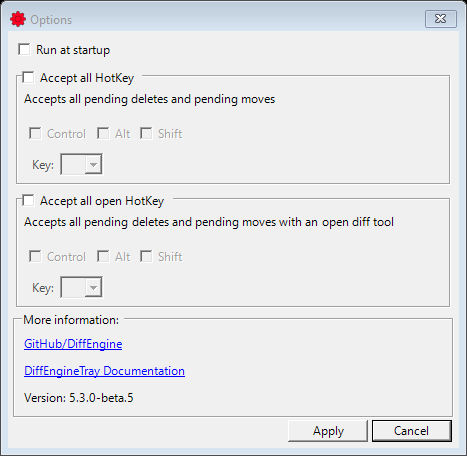
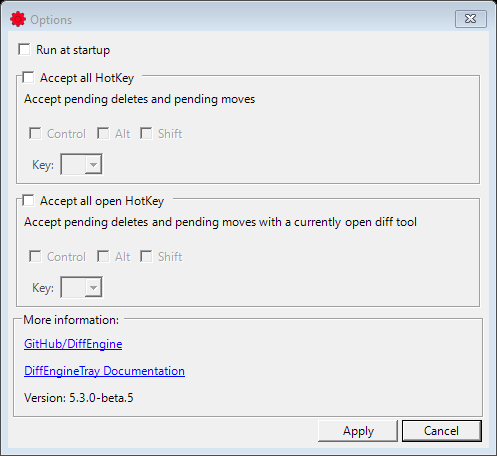
docs

diff --git a/src/DiffEngineTray/Settings/OptionsForm.Designer.cs b/src/DiffEngineTray/Settings/OptionsForm.Designer.cs
@@ -34,30 +34,30 @@
             this.bottomPanel.Controls.Add(this.save);
             this.bottomPanel.Dock = System.Windows.Forms.DockStyle.Bottom;
             this.bottomPanel.FlowDirection = System.Windows.Forms.FlowDirection.RightToLeft;
-            this.bottomPanel.Location = new System.Drawing.Point(5, 357);
-            this.bottomPanel.Margin = new System.Windows.Forms.Padding(2);
+            this.bottomPanel.Location = new System.Drawing.Point(9, 714);
+            this.bottomPanel.Margin = new System.Windows.Forms.Padding(3, 4, 3, 4);
             this.bottomPanel.Name = "bottomPanel";
-            this.bottomPanel.Size = new System.Drawing.Size(441, 26);
+            this.bottomPanel.Size = new System.Drawing.Size(807, 52);
             this.bottomPanel.TabIndex = 1;
             // 
             // cancel
             // 
             this.cancel.DialogResult = System.Windows.Forms.DialogResult.Cancel;
-            this.cancel.Location = new System.Drawing.Point(359, 2);
-            this.cancel.Margin = new System.Windows.Forms.Padding(2);
+            this.cancel.Location = new System.Drawing.Point(667, 4);
+            this.cancel.Margin = new System.Windows.Forms.Padding(3, 4, 3, 4);
             this.cancel.Name = "cancel";
             this.cancel.RightToLeft = System.Windows.Forms.RightToLeft.Yes;
-            this.cancel.Size = new System.Drawing.Size(80, 22);
+            this.cancel.Size = new System.Drawing.Size(137, 44);
             this.cancel.TabIndex = 0;
             this.cancel.Text = "Cancel";
             this.cancel.UseVisualStyleBackColor = true;
             // 
             // save
             // 
-            this.save.Location = new System.Drawing.Point(275, 2);
-            this.save.Margin = new System.Windows.Forms.Padding(2);
+            this.save.Location = new System.Drawing.Point(524, 4);
+            this.save.Margin = new System.Windows.Forms.Padding(3, 4, 3, 4);
             this.save.Name = "save";
-            this.save.Size = new System.Drawing.Size(80, 22);
+            this.save.Size = new System.Drawing.Size(137, 44);
             this.save.TabIndex = 1;
             this.save.Text = "Apply";
             this.save.UseVisualStyleBackColor = true;
@@ -67,14 +67,14 @@
             // 
             this.acceptAllHotKey.AutoSize = true;
             this.acceptAllHotKey.Dock = System.Windows.Forms.DockStyle.Top;
-            this.acceptAllHotKey.Help = "Accepts all pending deletes and pending moves";
+            this.acceptAllHotKey.Help = "Accept pending deletes and pending moves";
             this.acceptAllHotKey.HotKey = null;
             this.acceptAllHotKey.Label = "Accept all HotKey";
-            this.acceptAllHotKey.Location = new System.Drawing.Point(5, 31);
-            this.acceptAllHotKey.Margin = new System.Windows.Forms.Padding(2);
+            this.acceptAllHotKey.Location = new System.Drawing.Point(9, 59);
+            this.acceptAllHotKey.Margin = new System.Windows.Forms.Padding(3, 4, 3, 4);
             this.acceptAllHotKey.Name = "acceptAllHotKey";
-            this.acceptAllHotKey.Padding = new System.Windows.Forms.Padding(3);
-            this.acceptAllHotKey.Size = new System.Drawing.Size(441, 114);
+            this.acceptAllHotKey.Padding = new System.Windows.Forms.Padding(5, 6, 5, 6);
+            this.acceptAllHotKey.Size = new System.Drawing.Size(807, 224);
             this.acceptAllHotKey.TabIndex = 2;
             this.acceptAllHotKey.TabStop = false;
             // 
@@ -82,11 +82,11 @@
             // 
             this.startupCheckBox.AutoSize = true;
             this.startupCheckBox.Dock = System.Windows.Forms.DockStyle.Top;
-            this.startupCheckBox.Location = new System.Drawing.Point(5, 4);
-            this.startupCheckBox.Margin = new System.Windows.Forms.Padding(2);
+            this.startupCheckBox.Location = new System.Drawing.Point(9, 8);
+            this.startupCheckBox.Margin = new System.Windows.Forms.Padding(3, 4, 3, 4);
             this.startupCheckBox.Name = "startupCheckBox";
-            this.startupCheckBox.Padding = new System.Windows.Forms.Padding(5, 4, 5, 4);
-            this.startupCheckBox.Size = new System.Drawing.Size(441, 27);
+            this.startupCheckBox.Padding = new System.Windows.Forms.Padding(9, 8, 9, 8);
+            this.startupCheckBox.Size = new System.Drawing.Size(807, 51);
             this.startupCheckBox.TabIndex = 3;
             this.startupCheckBox.Text = "Run at startup";
             this.startupCheckBox.UseVisualStyleBackColor = true;
@@ -98,10 +98,11 @@
             this.groupBox1.Controls.Add(this.trayDocsLink);
             this.groupBox1.Controls.Add(this.diffEngineLink);
             this.groupBox1.Dock = System.Windows.Forms.DockStyle.Top;
-            this.groupBox1.Location = new System.Drawing.Point(5, 259);
+            this.groupBox1.Location = new System.Drawing.Point(9, 507);
+            this.groupBox1.Margin = new System.Windows.Forms.Padding(5, 6, 5, 6);
             this.groupBox1.Name = "groupBox1";
-            this.groupBox1.Padding = new System.Windows.Forms.Padding(6, 5, 6, 5);
-            this.groupBox1.Size = new System.Drawing.Size(441, 89);
+            this.groupBox1.Padding = new System.Windows.Forms.Padding(10);
+            this.groupBox1.Size = new System.Drawing.Size(807, 179);
             this.groupBox1.TabIndex = 5;
             this.groupBox1.TabStop = false;
             this.groupBox1.Text = "More information:";
@@ -110,10 +111,11 @@
             // 
             this.versionLabel.AutoSize = true;
             this.versionLabel.Dock = System.Windows.Forms.DockStyle.Top;
-            this.versionLabel.Location = new System.Drawing.Point(6, 63);
+            this.versionLabel.Location = new System.Drawing.Point(10, 126);
+            this.versionLabel.Margin = new System.Windows.Forms.Padding(5, 0, 5, 0);
             this.versionLabel.Name = "versionLabel";
-            this.versionLabel.Padding = new System.Windows.Forms.Padding(3);
-            this.versionLabel.Size = new System.Drawing.Size(51, 21);
+            this.versionLabel.Padding = new System.Windows.Forms.Padding(5, 6, 5, 6);
+            this.versionLabel.Size = new System.Drawing.Size(99, 43);
             this.versionLabel.TabIndex = 2;
             this.versionLabel.Text = "Version";
             // 
@@ -121,10 +123,11 @@
             // 
             this.trayDocsLink.AutoSize = true;
             this.trayDocsLink.Dock = System.Windows.Forms.DockStyle.Top;
-            this.trayDocsLink.Location = new System.Drawing.Point(6, 42);
+            this.trayDocsLink.Location = new System.Drawing.Point(10, 83);
+            this.trayDocsLink.Margin = new System.Windows.Forms.Padding(5, 0, 5, 0);
             this.trayDocsLink.Name = "trayDocsLink";
-            this.trayDocsLink.Padding = new System.Windows.Forms.Padding(3);
-            this.trayDocsLink.Size = new System.Drawing.Size(176, 21);
+            this.trayDocsLink.Padding = new System.Windows.Forms.Padding(5, 6, 5, 6);
+            this.trayDocsLink.Size = new System.Drawing.Size(335, 43);
             this.trayDocsLink.TabIndex = 1;
             this.trayDocsLink.TabStop = true;
             this.trayDocsLink.Text = "DiffEngineTray Documentation";
@@ -134,10 +137,11 @@
             // 
             this.diffEngineLink.AutoSize = true;
             this.diffEngineLink.Dock = System.Windows.Forms.DockStyle.Top;
-            this.diffEngineLink.Location = new System.Drawing.Point(6, 21);
+            this.diffEngineLink.Location = new System.Drawing.Point(10, 40);
+            this.diffEngineLink.Margin = new System.Windows.Forms.Padding(5, 0, 5, 0);
             this.diffEngineLink.Name = "diffEngineLink";
-            this.diffEngineLink.Padding = new System.Windows.Forms.Padding(3);
-            this.diffEngineLink.Size = new System.Drawing.Size(111, 21);
+            this.diffEngineLink.Padding = new System.Windows.Forms.Padding(5, 6, 5, 6);
+            this.diffEngineLink.Size = new System.Drawing.Size(212, 43);
             this.diffEngineLink.TabIndex = 0;
             this.diffEngineLink.TabStop = true;
             this.diffEngineLink.Text = "GitHub/DiffEngine";
@@ -147,36 +151,36 @@
             // 
             this.acceptOpenHotKey.AutoSize = true;
             this.acceptOpenHotKey.Dock = System.Windows.Forms.DockStyle.Top;
-            this.acceptOpenHotKey.Help = "Accepts all pending deletes and pending moves with an open diff tool";
+            this.acceptOpenHotKey.Help = "Accept pending deletes and pending moves with a currently open diff tool";
             this.acceptOpenHotKey.HotKey = null;
             this.acceptOpenHotKey.Label = "Accept all open HotKey";
-            this.acceptOpenHotKey.Location = new System.Drawing.Point(5, 145);
-            this.acceptOpenHotKey.Margin = new System.Windows.Forms.Padding(2);
+            this.acceptOpenHotKey.Location = new System.Drawing.Point(9, 283);
+            this.acceptOpenHotKey.Margin = new System.Windows.Forms.Padding(3, 4, 3, 4);
             this.acceptOpenHotKey.Name = "acceptOpenHotKey";
-            this.acceptOpenHotKey.Padding = new System.Windows.Forms.Padding(3);
-            this.acceptOpenHotKey.Size = new System.Drawing.Size(441, 114);
+            this.acceptOpenHotKey.Padding = new System.Windows.Forms.Padding(5, 6, 5, 6);
+            this.acceptOpenHotKey.Size = new System.Drawing.Size(807, 224);
             this.acceptOpenHotKey.TabIndex = 6;
             this.acceptOpenHotKey.TabStop = false;
             // 
             // OptionsForm
             // 
             this.AcceptButton = this.save;
-            this.AutoScaleDimensions = new System.Drawing.SizeF(7F, 15F);
+            this.AutoScaleDimensions = new System.Drawing.SizeF(12F, 30F);
             this.AutoScaleMode = System.Windows.Forms.AutoScaleMode.Font;
             this.AutoSize = true;
             this.CancelButton = this.cancel;
-            this.ClientSize = new System.Drawing.Size(451, 387);
+            this.ClientSize = new System.Drawing.Size(825, 774);
             this.Controls.Add(this.groupBox1);
             this.Controls.Add(this.bottomPanel);
             this.Controls.Add(this.acceptOpenHotKey);
             this.Controls.Add(this.acceptAllHotKey);
             this.Controls.Add(this.startupCheckBox);
             this.FormBorderStyle = System.Windows.Forms.FormBorderStyle.FixedDialog;
-            this.Margin = new System.Windows.Forms.Padding(2);
+            this.Margin = new System.Windows.Forms.Padding(3, 4, 3, 4);
             this.MaximizeBox = false;
             this.MinimizeBox = false;
             this.Name = "OptionsForm";
-            this.Padding = new System.Windows.Forms.Padding(5, 4, 5, 4);
+            this.Padding = new System.Windows.Forms.Padding(9, 8, 9, 8);
             this.ShowInTaskbar = false;
             this.SizeGripStyle = System.Windows.Forms.SizeGripStyle.Hide;
             this.Text = "Options";

diff --git a/docs/mdsource/tray.source.md b/docs/mdsource/tray.source.md
@@ -54,14 +54,25 @@ Clear will clear all currently tracked items.
 <img src="..\src\DiffEngineTray.Tests\OptionsFormTests.Default.verified.png">
 
 
-#### Accept all HotKey
-
-Registers a system wide HotKey to accept all pending changes.
-
-
 #### Run at startup
 
 Runs DiffEngineTray at system startup.
+
+
+#### Accept all HotKey
+
+Registers a system wide HotKey to accept pending:
+
+ * Deletes 
+ * Moves
+
+
+#### Accept all open HotKey
+
+Registers a system wide HotKey to accept pending:
+
+ * Deletes 
+ * Moves that are currently open in a diff tool
 
 
 ## Currently supported in

diff --git a/docs/tray.md b/docs/tray.md
@@ -61,14 +61,25 @@ Clear will clear all currently tracked items.
 <img src="..\src\DiffEngineTray.Tests\OptionsFormTests.Default.verified.png">
 
 
-#### Accept all HotKey
-
-Registers a system wide HotKey to accept all pending changes.
-
-
 #### Run at startup
 
 Runs DiffEngineTray at system startup.
+
+
+#### Accept all HotKey
+
+Registers a system wide HotKey to accept pending:
+
+ * Deletes 
+ * Moves
+
+
+#### Accept all open HotKey
+
+Registers a system wide HotKey to accept pending:
+
+ * Deletes 
+ * Moves that are currently open in a diff tool
 
 
 ## Currently supported in
